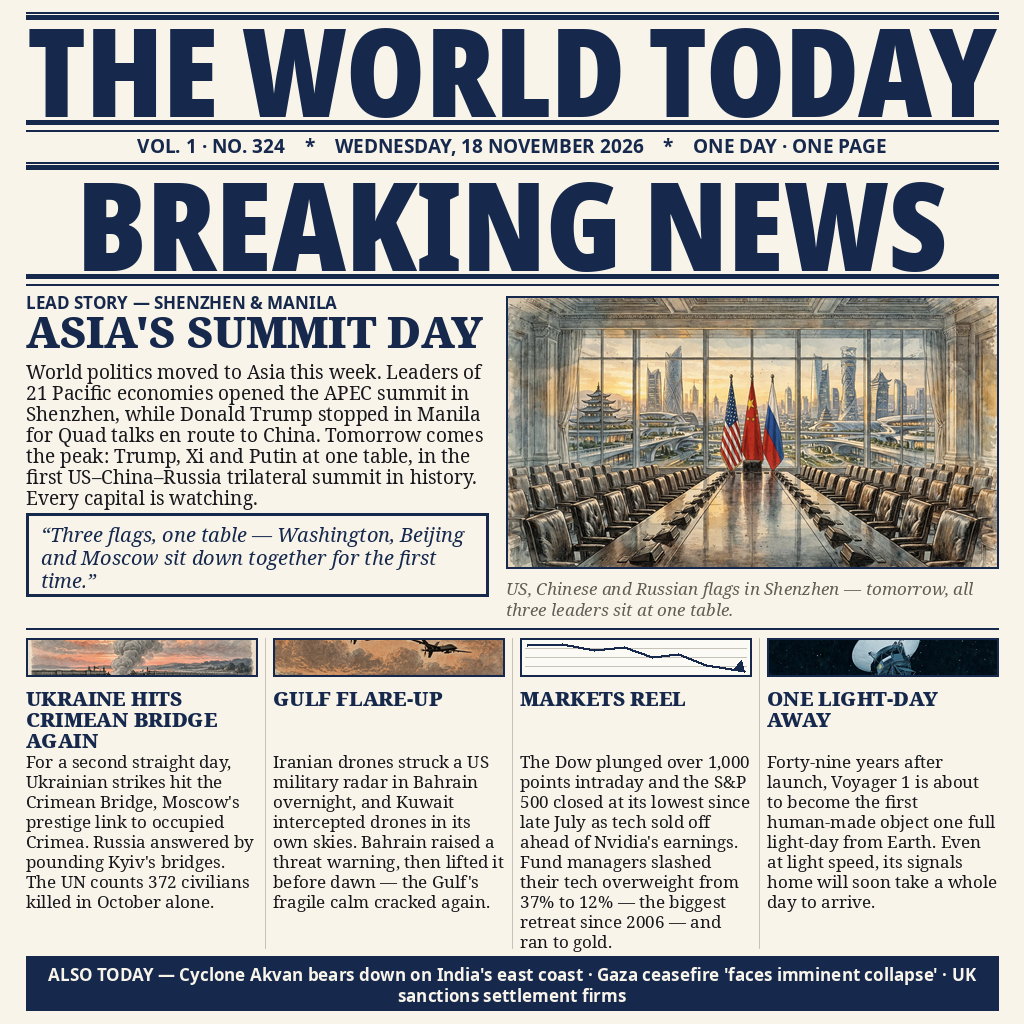
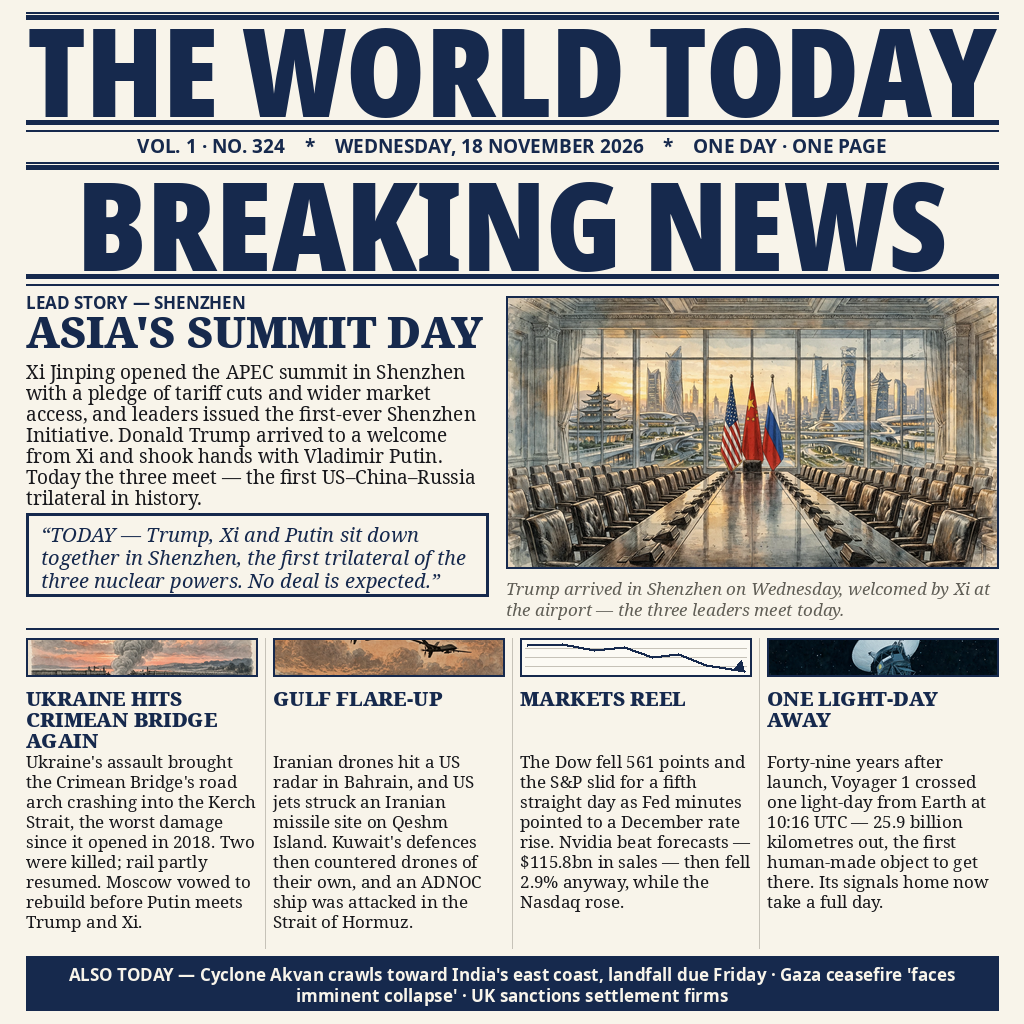
v3: complete 18 Nov news — APEC outcomes, Gulf widening, Nvidia beat-and-fall, Voyager one light-day

diff --git a/compose.py b/compose.py
@@ -139,25 +139,26 @@ RX = M + LW + 18                   # 506
 RW = W - M - RX                    # 492
 
 f_kick = font(SANS_BOLD, 17)
-ky = left_ink(LX, LEAD_Y, "LEAD STORY \u2014 SHENZHEN & MANILA", f_kick)
+ky = left_ink(LX, LEAD_Y, "LEAD STORY \u2014 SHENZHEN", f_kick)
 f_lh, lhs = fit_font(SERIF_BLACK, "ASIA'S SUMMIT DAY", LW, 54)
 hy = left_ink(LX, ky + 8, "ASIA'S SUMMIT DAY", f_lh)
 print("lead headline size", lhs, "bottom", hy)
 f_body = font(SERIF_REG, 19)
-lead_body = ("World politics moved to Asia this week. Leaders of 21 Pacific "
-             "economies opened the APEC summit in Shenzhen, while Donald Trump "
-             "stopped in Manila for Quad talks en route to China. Tomorrow "
-             "comes the peak: Trump, Xi and Putin at one table, in the first "
-             "US\u2013China\u2013Russia trilateral summit in history. "
-             "Every capital is watching.")
+lead_body = ("Xi Jinping opened the APEC summit in Shenzhen with a pledge "
+             "of tariff cuts and wider market access, and leaders issued "
+             "the first-ever Shenzhen Initiative. Donald Trump arrived to "
+             "a welcome from Xi and shook hands with Vladimir Putin. Today "
+             "the three meet \u2014 the first US\u2013China\u2013Russia "
+             "trilateral in history.")
 lead_lines = wrap(f_body, lead_body, LW)
 by = block_text(LX, hy + 10, lead_lines, f_body, 21)
 print("lead body lines", len(lead_lines), "ends", by)
 
 qy = by + 8
 f_quote = font(SERIF_IT, 20)
-quote = ("\u201cThree flags, one table \u2014 Washington, Beijing and Moscow "
-         "sit down together for the first time.\u201d")
+quote = ("\u201cTODAY \u2014 Trump, Xi and Putin sit down together in "
+         "Shenzhen, the first trilateral of the three nuclear powers. "
+         "No deal is expected.\u201d")
 qlines = wrap(f_quote, quote, LW - 30)
 qh = len(qlines) * 23 + 14
 d.rectangle([LX, qy, LX + LW, qy + qh], outline=NAVY, width=3)
@@ -166,8 +167,8 @@ LEAD_END = qy + qh
 
 paste_cover(f"{HERE}/art_summit.png", (RX, LEAD_Y, RX + RW, LEAD_Y + 272), fy=0.44)
 f_cap = font(SERIF_IT, 17)
-cap = ("US, Chinese and Russian flags in Shenzhen \u2014 tomorrow, all "
-       "three leaders sit at one table.")
+cap = ("Trump arrived in Shenzhen on Wednesday, welcomed by Xi at the "
+       "airport \u2014 the three leaders meet today.")
 cy = LEAD_Y + 280
 for ln in wrap(f_cap, cap, RW):
     d.text((RX, cy), ln, font=f_cap, fill=GREY)
@@ -186,23 +187,25 @@ ART_H = 38
 
 stories = [
     ("UKRAINE HITS CRIMEAN BRIDGE AGAIN", "art_bridge.png", 0.52,
-     "For a second straight day, Ukrainian strikes hit the Crimean Bridge, "
-     "Moscow's prestige link to occupied Crimea. Russia answered by pounding "
-     "Kyiv's bridges. The UN counts 372 civilians killed in October alone."),
+     "Ukraine's assault brought the Crimean Bridge's road arch crashing "
+     "into the Kerch Strait, the worst damage since it opened in 2018. "
+     "Two were killed; rail partly resumed. Moscow vowed to rebuild "
+     "before Putin meets Trump and Xi."),
     ("GULF FLARE-UP", "art_gulf.png", 0.40,
-     "Iranian drones struck a US military radar in Bahrain overnight, and "
-     "Kuwait intercepted drones in its own skies. Bahrain raised a threat "
-     "warning, then lifted it before dawn \u2014 the Gulf's fragile calm "
-     "cracked again."),
+     "Iranian drones hit a US radar in Bahrain, and US jets struck an "
+     "Iranian missile site on Qeshm Island. Kuwait's defences then "
+     "countered drones of their own, and an ADNOC ship was attacked in "
+     "the Strait of Hormuz."),
     ("MARKETS REEL", None, 0.0,
-     "The Dow plunged over 1,000 points intraday and the S&P 500 closed at "
-     "its lowest since late July as tech sold off ahead of Nvidia's earnings. "
-     "Fund managers slashed their tech overweight from 37% to 12% \u2014 the "
-     "biggest retreat since 2006 \u2014 and ran to gold."),
+     "The Dow fell 561 points and the S&P slid for a fifth straight day "
+     "as Fed minutes pointed to a December rate rise. Nvidia beat "
+     "forecasts \u2014 $115.8bn in sales \u2014 then fell 2.9% anyway, "
+     "while the Nasdaq rose."),
     ("ONE LIGHT-DAY AWAY", "art_voyager.png", 0.45,
-     "Forty-nine years after launch, Voyager 1 is about to become the first "
-     "human-made object one full light-day from Earth. Even at light speed, "
-     "its signals home will soon take a whole day to arrive."),
+     "Forty-nine years after launch, Voyager 1 crossed one light-day "
+     "from Earth at 10:16 UTC \u2014 25.9 billion kilometres out, the "
+     "first human-made object to get there. Its signals home now take "
+     "a full day."),
 ]
 
 f_col_h = font(SERIF_BLACK, 20)
@@ -238,9 +241,9 @@ for i, (head, art, fy_, body) in enumerate(stories):
 # ---------------- Footer: navy ALSO TODAY strip ----------------
 FY = 956
 f_also = font(SANS_BOLD, 17)
-also = ("ALSO TODAY \u2014 Cyclone Akvan bears down on India's east coast "
-        "\u00b7 Gaza ceasefire 'faces imminent collapse' \u00b7 UK sanctions "
-        "settlement firms")
+also = ("ALSO TODAY \u2014 Cyclone Akvan crawls toward India's east coast, "
+        "landfall due Friday \u00b7 Gaza ceasefire 'faces imminent collapse' "
+        "\u00b7 UK sanctions settlement firms")
 alines = wrap(f_also, also, CW - 36)
 AH = len(alines) * 21 + 12
 assert FY + AH <= H - 8, (FY, AH)
